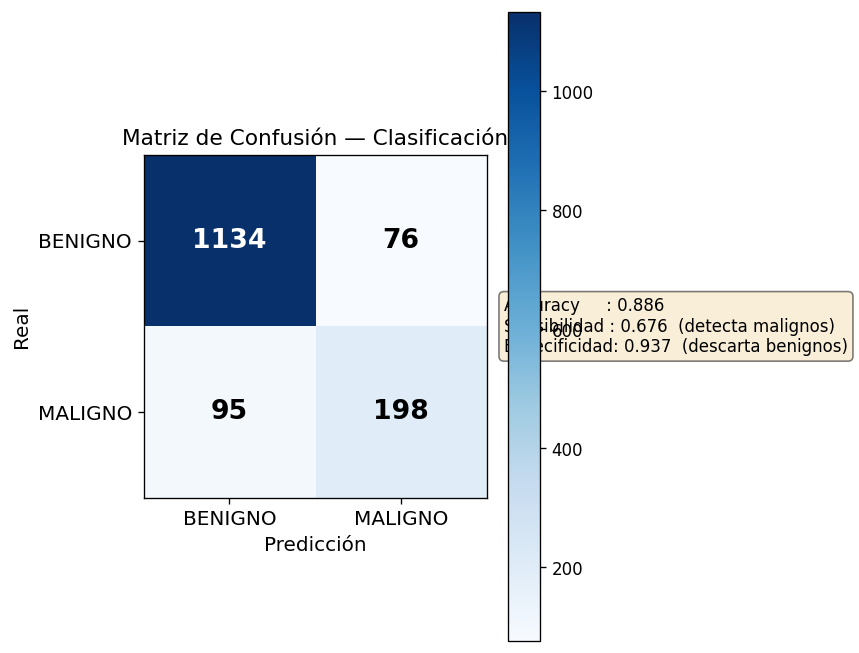
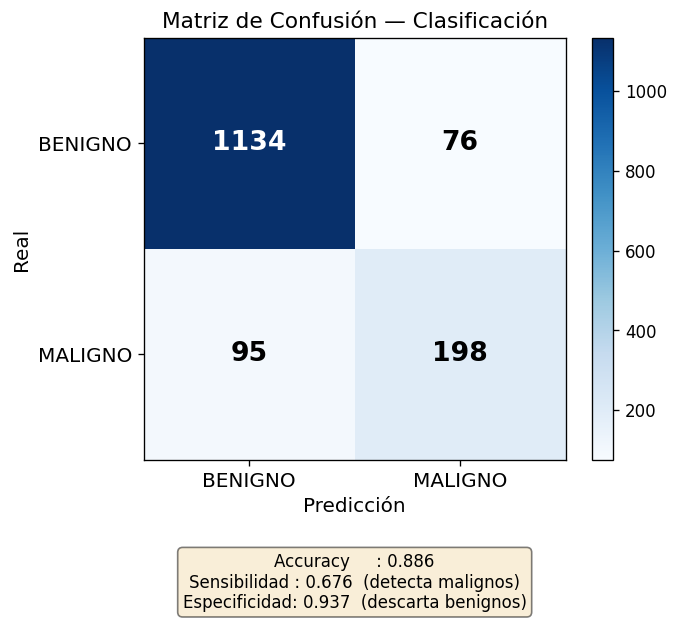
se ha corregido visualización de la matriz de confusión

diff --git a/visualize.py b/visualize.py
@@ -261,12 +261,12 @@ def main():
     stats = (f"Accuracy     : {accuracy:.3f}\n"
              f"Sensibilidad : {sensibilidad:.3f}  (detecta malignos)\n"
              f"Especificidad: {especificidad:.3f}  (descarta benignos)")
-    ax.text(1.05, 0.5, stats, transform=ax.transAxes,
-            fontsize=10, va='center',
+    plt.colorbar(im, ax=ax, fraction=0.046, pad=0.04)
+    ax.text(0.5, -0.22, stats, transform=ax.transAxes,
+            fontsize=10, ha='center', va='top', clip_on=False,
             bbox=dict(boxstyle='round', facecolor='wheat', alpha=0.5))
 
-    plt.colorbar(im)
-    plt.tight_layout()
+    plt.tight_layout(rect=[0, 0.08, 1, 1])
     plt.savefig("viz_confusion.png", dpi=120, bbox_inches='tight')
     plt.close('all')
     plt.show()